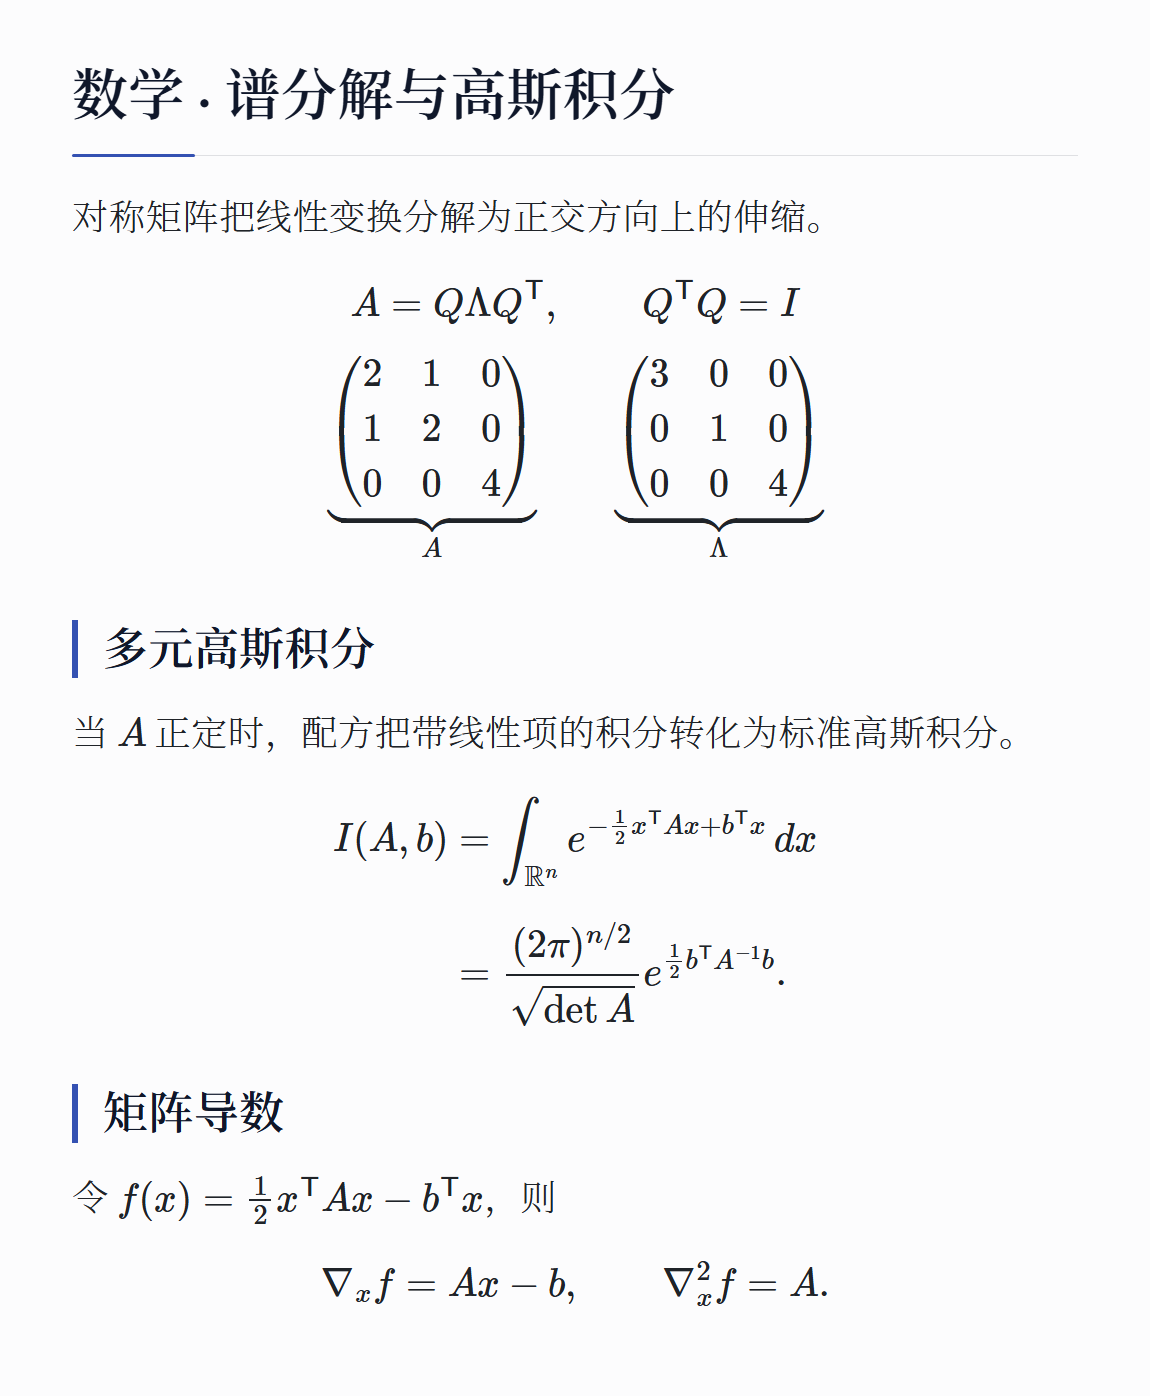
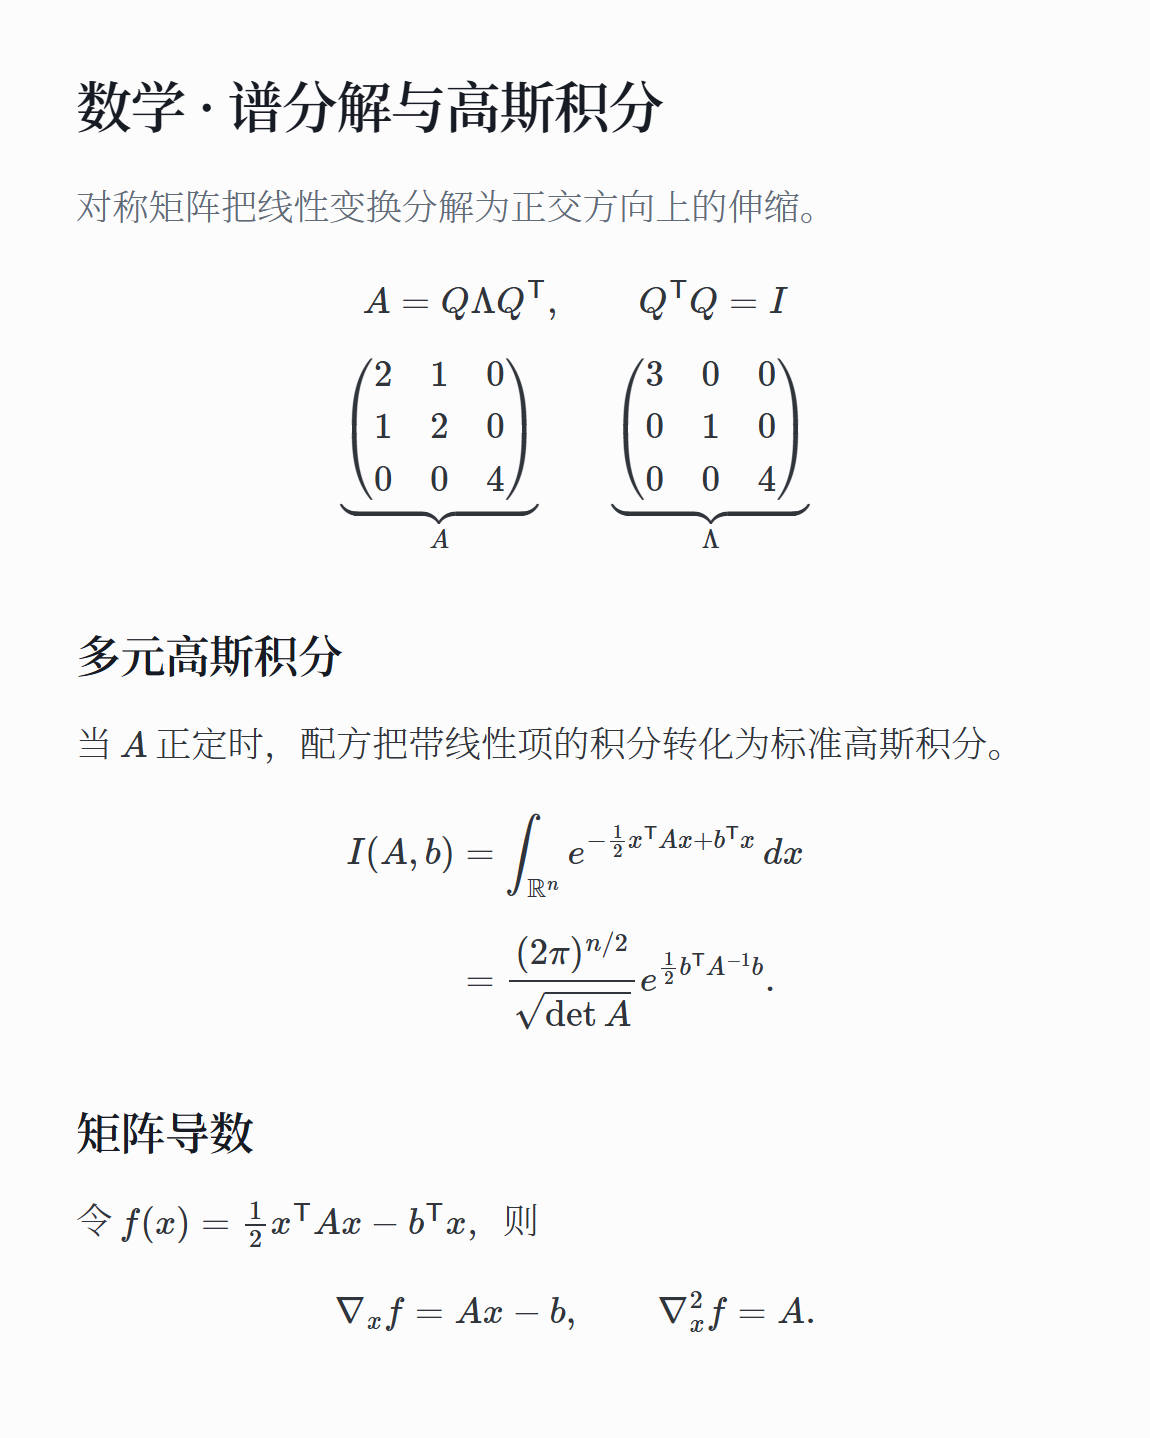
feat: adopt editorial rendering template

diff --git a/templates/template.html b/templates/template.html
@@ -202,30 +202,27 @@
 
     <style>
         :root {
-            /* 学术排版 + 现代中性配色：近白底、深灰正文、靛蓝强调 */
+            /* Quiet editorial typography keeps formulas and prose in focus. */
             --bg-color: #FCFCFD;        /* 中性近白（可被配置覆盖） */
             --body-font-size: 36px;
             --h1-scale: 1.55;
             --h2-scale: 1.25;
             --h3-scale: 1.10;
             --line-height: 1.7;
-            --text-color: #1f2328;
-            --heading-color: #0f172a;
-            --muted-color: #5b6472;
-            --accent-color: #3451b2;    /* 靛蓝强调色 */
-            --accent-soft: rgba(52, 81, 178, 0.06);
-            --accent-line: rgba(52, 81, 178, 0.35);
-            /* 中性半透明色，任意浅色背景下都协调 */
-            --rule-color: rgba(15, 23, 42, 0.12);
-            --surface: rgba(15, 23, 42, 0.035);
-            --inline-code-bg: rgba(15, 23, 42, 0.06);
-            --inline-code-color: #b4235a;
+            --text-color: #30343b;
+            --heading-color: #171b23;
+            --muted-color: #626b78;
+            --accent-color: #3156a0;
+            --accent-line: rgba(49, 86, 160, 0.3);
+            --rule-color: rgba(23, 27, 35, 0.13);
+            --surface: rgba(23, 27, 35, 0.025);
+            --inline-code-bg: rgba(23, 27, 35, 0.045);
+            --inline-code-color: #334766;
 
-            /* Code uses the same paper and indigo palette as the document. */
-            --code-bg: #f7f8fc;
-            --code-header-bg: rgba(52, 81, 178, 0.055);
-            --code-gutter-bg: rgba(52, 81, 178, 0.025);
-            --code-border: rgba(52, 81, 178, 0.14);
+            /* Neutral code surfaces do not compete with syntax colors. */
+            --code-bg: #f5f6f8;
+            --code-header-bg: transparent;
+            --code-border: rgba(23, 27, 35, 0.1);
             --code-text: #243047;
             --code-muted: var(--muted-color);
             --code-line-num: #687386;
@@ -233,6 +230,7 @@
 
             /* LaTeX 风格字体栈：英文优先 EB Garamond，中文后备 Noto Serif SC */
             --font-main: "EB Garamond", "Noto Serif SC", "Songti SC", serif;
+            --font-heading: "Noto Serif SC", "Songti SC", serif;
             /* Reuse the loaded CJK font when the server lacks a Chinese monospace font. */
             --font-code: "Fira Code", "Fira Mono", "Consolas", "Courier New", "Noto Serif SC", monospace;
         }
@@ -250,19 +248,20 @@
             color: var(--text-color);
             font-family: var(--font-main);
             line-height: var(--line-height);
-            padding: 60px 72px;
+            padding: 68px 76px;
             font-size: var(--body-font-size);
             -webkit-font-smoothing: antialiased;
             text-rendering: optimizeLegibility;
         }
 
         h1, h2, h3, h4, h5, h6 {
+            font-family: var(--font-heading);
             font-weight: 600;
             color: var(--heading-color);
-            line-height: 1.3;
-            letter-spacing: 0.01em;
-            margin-top: 1.3em;
-            margin-bottom: 0.55em;
+            line-height: 1.4;
+            letter-spacing: -0.015em;
+            margin-top: 1.55em;
+            margin-bottom: 0.65em;
         }
 
         .render-content {
@@ -286,35 +285,25 @@
             margin-bottom: 0;
         }
 
-        /* 一级标题：细分隔线 + 强调色短条 */
+        /* Title hierarchy comes from type and space rather than ornaments. */
         h1 {
-            position: relative;
             font-size: calc(1em * var(--h1-scale));
-            padding-bottom: 0.4em;
-            border-bottom: 1px solid var(--rule-color);
+            line-height: 1.3;
+            letter-spacing: -0.025em;
+            margin-bottom: 0.65em;
         }
 
-        h1::after {
-            content: "";
-            position: absolute;
-            left: 0;
-            bottom: -2px;
-            width: 2.2em;
-            height: 3px;
-            border-radius: 3px;
-            background: var(--accent-color);
+        h1 + p {
+            color: var(--muted-color);
+            margin-bottom: 1.15em;
         }
 
-        /* 二级标题：左侧强调色竖条 */
         h2 {
             font-size: calc(1em * var(--h2-scale));
-            padding-left: 0.55em;
-            border-left: 0.14em solid var(--accent-color);
         }
 
         h3 {
             font-size: calc(1em * var(--h3-scale));
-            color: var(--accent-color);
         }
 
         h4, h5, h6 {
@@ -322,11 +311,11 @@
         }
 
         p {
-            letter-spacing: 0.02em;
+            letter-spacing: 0.005em;
             line-height: var(--line-height);
             /* 左对齐：中文与行内公式、代码混排时，两端对齐会把字距硬撑开 */
             text-align: left;
-            margin: 0 0 0.9em 0;
+            margin: 0 0 0.85em;
         }
 
         hr {
@@ -338,7 +327,7 @@
 
         /* --- 列表 --- */
         ul, ol {
-            padding-left: 1.6em;
+            padding-left: 1.35em;
             margin: 0.5em 0 0.9em;
         }
 
@@ -348,7 +337,7 @@
         }
 
         li::marker {
-            color: var(--accent-color);
+            color: var(--muted-color);
         }
 
         ol > li::marker {
@@ -371,33 +360,30 @@
             margin: 0.3em 0;
         }
 
-        /* --- 引用：强调色竖线 + 淡蓝底（中文不做伪斜体） --- */
+        /* A single rule separates quotations without adding another card. */
         blockquote {
-            margin: 1em 0;
-            padding: 0.6em 1em;
-            border-left: 0.14em solid var(--accent-color);
-            border-radius: 0 10px 10px 0;
-            background: var(--accent-soft);
-            color: #334155;
+            margin: 1.1em 0;
+            padding: 0.05em 0 0.05em 0.85em;
+            border-left: 2px solid var(--accent-line);
+            color: var(--muted-color);
         }
 
         blockquote p {
             margin: 0.3em 0;
         }
 
-        /* Quiet code cards share the document's academic visual language. */
+        /* Code labels and line numbers stay subordinate to the source. */
         pre {
             --gutter-width: 3em;
             position: relative;
             background: var(--code-bg);
             color: var(--code-text);
             border: 1px solid var(--code-border);
-            border-radius: 10px;
-            box-shadow: 0 3px 12px rgba(52, 81, 178, 0.04);
+            border-radius: 8px;
             padding: 0;
             font-family: var(--font-code);
-            font-size: 0.6em;
-            margin: 1.2em 0;
+            font-size: 0.65em;
+            margin: 1em 0;
             overflow: hidden;
             text-align: left;
         }
@@ -405,46 +391,20 @@
         .code-header {
             display: flex;
             align-items: center;
-            gap: 0.65em;
-            padding: 0.6em 1.35em;
+            padding: 0.65em 1.25em;
             background: var(--code-header-bg);
             border-bottom: 1px solid var(--code-border);
             color: var(--code-muted);
-            font-size: 0.75em;
+            font-size: 0.78em;
             font-weight: 500;
             line-height: 1.5;
-            letter-spacing: 0.04em;
-            text-transform: none;
-        }
-
-        .code-header::before {
-            content: "";
-            width: 0.55em;
-            height: 0.55em;
-            border-radius: 50%;
-            background: var(--code-accent);
-            opacity: 1;
+            letter-spacing: 0.08em;
+            text-transform: uppercase;
         }
 
         .code-body {
             position: relative;
-            padding: 0.8em 0;
-            background: linear-gradient(
-                to right,
-                var(--code-gutter-bg) 0,
-                var(--code-gutter-bg) var(--gutter-width),
-                transparent var(--gutter-width)
-            );
-        }
-
-        /* Extend the gutter rule through the vertical padding. */
-        .code-body::before {
-            content: "";
-            position: absolute;
-            top: 0;
-            bottom: 0;
-            left: var(--gutter-width);
-            border-left: 1px solid var(--code-border);
+            padding: 0.85em 0;
         }
 
         .code-line {
@@ -467,7 +427,7 @@
         .line-content {
             flex: 1;
             min-width: 0;
-            padding-left: 1em;
+            padding-left: 0.5em;
             padding-right: 1.2em;
             line-height: 1.65;
             white-space: pre-wrap;
@@ -515,32 +475,32 @@
             font-size: 1em;
         }
 
-        /* --- 表格：圆角卡片，表头浅底 --- */
+        /* Open table edges follow the document's typographic grid. */
         table {
-            border-collapse: separate;
-            border-spacing: 0;
+            border-collapse: collapse;
             width: 100%;
-            margin: 1.1em 0;
-            font-size: 0.88em;
-            border: 1px solid var(--rule-color);
-            border-radius: 14px;
-            overflow: hidden;
+            margin: 1em 0 1.25em;
+            font-size: 0.85em;
         }
 
         th, td {
-            padding: 0.5em 0.9em;
+            padding: 0.6em 0.65em;
             text-align: left;
         }
 
         thead th {
             font-weight: 600;
             color: var(--heading-color);
-            background: var(--surface);
+            background: transparent;
             border-bottom: 1px solid var(--rule-color);
         }
 
         tbody tr + tr td {
             border-top: 1px solid var(--rule-color);
+        }
+
+        tbody tr:last-child td {
+            border-bottom: 1px solid var(--rule-color);
         }
 
         /* --- 链接 --- */
@@ -562,11 +522,11 @@
 
         /* --- MathJax 公式样式 --- */
         .MathJax {
-            font-size: 1.1em !important;
+            font-size: 1.04em !important;
         }
 
         mjx-container[jax="CHTML"][display="true"] {
-            margin: 0.75em 0 !important;
+            margin: 1em 0 !important;
         }
 
         /* MathJax 中文文本字体对齐正文 */

diff --git a/tests/test_template_style.py b/tests/test_template_style.py
@@ -135,7 +135,7 @@ def _function_body(source, name):
         elif source[index] == "}":
             depth -= 1
             if depth == 0:
-                return source[start + 1:index]
+                return source[start + 1 : index]
     raise AssertionError(f"Unclosed function: {name}")
 
 
@@ -152,7 +152,7 @@ def _async_tasks(lifecycle_body):
             elif lifecycle_body[index] == "}":
                 depth -= 1
                 if depth == 0:
-                    tasks.append(lifecycle_body[start + 1:index])
+                    tasks.append(lifecycle_body[start + 1 : index])
                     offset = index + 1
                     break
         else:
@@ -195,12 +195,14 @@ def test_code_chrome_uses_readable_theme_colors(template):
         expected_title = expected_lines = "var(--muted-color)"
     assert _css_declarations(source, title_selector).get("color") == expected_title
     assert _css_declarations(source, ".line-num").get("color") == expected_lines
-    assert "lineNum.setAttribute('aria-hidden', 'true')" in _function_body(source, "__formatRenderCode")
+    assert "lineNum.setAttribute('aria-hidden', 'true')" in _function_body(
+        source, "__formatRenderCode"
+    )
 
 
 def test_default_code_block_matches_document_palette():
     source = _source(TEMPLATES["default"])
-    assert "--code-bg: #f7f8fc;" in source
+    assert "--code-bg: #f5f6f8;" in source
     assert "--code-accent: var(--accent-color);" in source
     assert "background: var(--code-header-bg);" in source
     assert "pre .nf, pre .fm, pre .nd { color: #8250df; }" in source

diff --git a/scripts/render_showcase.py b/scripts/render_showcase.py
@@ -15,6 +15,7 @@ async def main():
         "--names",
         nargs="+",
         default=[
+            "editorial",
             "math",
             "chemistry",
             "physics",

diff --git a/examples/editorial.md b/examples/editorial.md
@@ -1,0 +1,41 @@
+# 从变化中寻找规律
+
+用一个函数、一条公式和几行代码，理解导数如何描述变化。
+
+## 在一点附近，看见变化
+
+把镜头移到曲线的一小段，弯曲的轨迹会逐渐接近一条直线。**导数就是这条直线的斜率**：它告诉我们，输入增加一点时，输出会怎样改变。
+
+$$
+f'(x)=\lim_{h\to 0}\frac{f(x+h)-f(x)}{h}
+$$
+
+对于 $f(x)=x^2$，有 $f'(x)=2x$。在 $x=1$ 处，切线斜率为 $2$。
+
+> 公式描述精确的关系，直觉帮助我们理解关系。
+
+## 把符号与含义对应起来
+
+| 表达 | 含义 | 例子 |
+| --- | --- | --- |
+| $f(x)$ | 某个位置的函数值 | $f(1)=1$ |
+| $f'(x)$ | 某个位置的变化速度 | $f'(1)=2$ |
+| $\int_a^b f(x)\,dx$ | 一个区间内的累积量 | $\int_0^1 x^2\,dx=\frac13$ |
+
+### 用代码验证
+
+中心差分用左右两侧的函数值估计导数。下面的结果接近解析值 $2$。
+
+```python
+def derivative(f, x, h=1e-5):
+    left = f(x - h)
+    right = f(x + h)
+    return (right - left) / (2 * h)
+
+print(derivative(lambda x: x**2, 1))
+```
+
+选择步长时，需要平衡两类误差：
+
+- 步长过大，曲线的弯曲会影响直线近似。
+- 步长过小，浮点运算的舍入误差会被放大。
